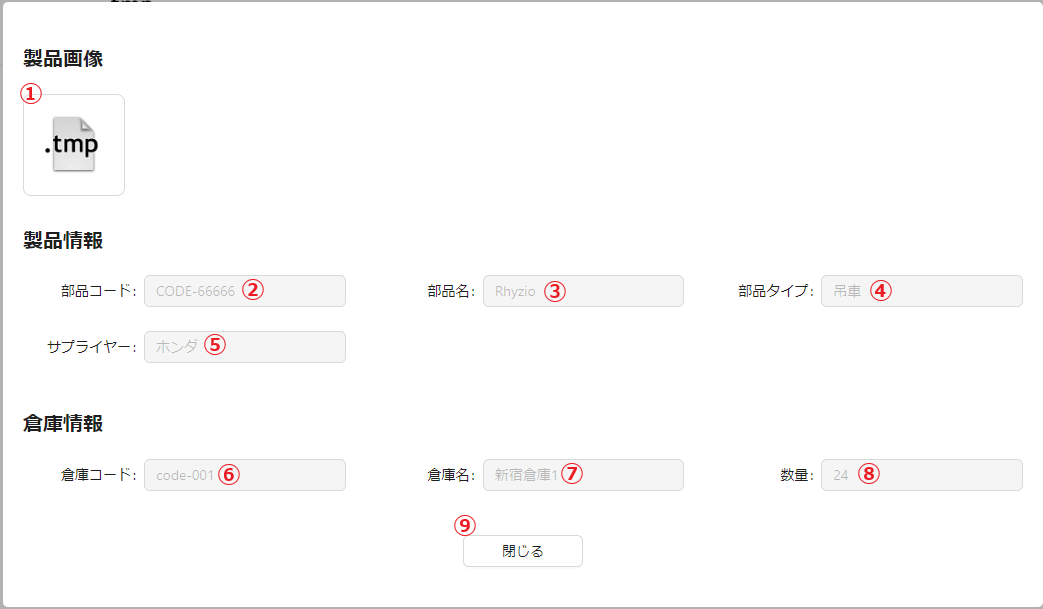
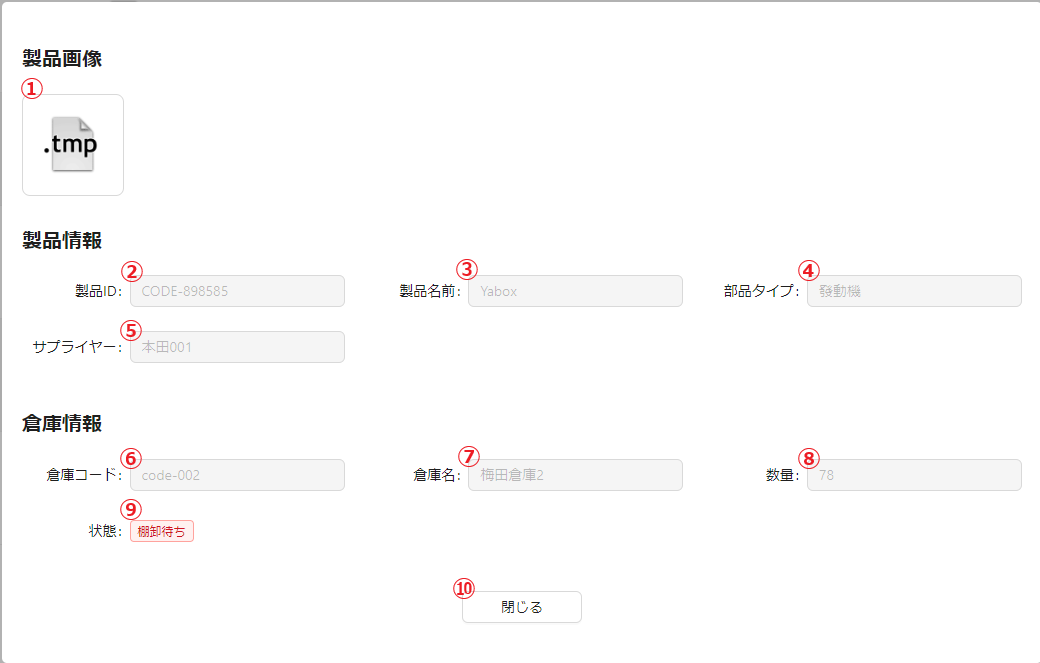
手順書更新

diff --git a/手順書/HOSO-SYSTEM 実行手順書.md b/手順書/HOSO-SYSTEM 実行手順書.md
@@ -453,9 +453,9 @@
 | id  |      説明      |
 | :-- | :----------: |
 | ①   |  記録をダウンロードする（詳しくは[3.1.1](#311)へ）  |
-| ②   |   記録の状態を棚卸に変更する   |
-| ③   |    テーブルヘッダー（検索）（詳しくは[3.1.2](#312)へ）    |
-| ④   |   詳細を表示（詳しくは[3.1.3](#313)へ）  |
+| ②   |   記録の状態を棚卸に変更する （詳しくは[3.1.2](#312)へ）  |
+| ③   |    テーブルヘッダー（検索）（詳しくは[3.1.3](#313)へ）    |
+| ④   |   詳細を表示（詳しくは[3.1.4](#314)へ）  |
 
 <a id="311"></a>
 ### 3.1.1. ① :記録をダウンロードする
@@ -464,9 +464,19 @@
 <!-- TODO: add image-->
 
 <a id="312"></a>
-### 3.1.2. テーブルヘッダー（検索）
+### 3.1.2. 記録の状態を棚卸に変更する
+このボタンを押して、記録の状態を棚卸待ちに変える。
+タグで状態を表示されている。\
+タグの画像は以下のように表示されている。
+| 状態  |      タグ     |
+| :-- | :----------: |
+| 正常  |  ![正常タグ](./img/stock/tag_normal.png)  |
+| 棚卸待ち  |   ![棚卸待ちタグ](./img/stock/tag_wait.png)  |
+
+<a id="313"></a>
+### 3.1.3. テーブルヘッダー（検索）
 カラム名を表示する。\
-![search icon](./img/search-icon.png)がついているカラムをクリックしたら検索できる。\
+![search icon](./img/search-icon.png)がついているカラムをクリックしたら検索できる。
 
 下記は検索できるカラム
 - 倉庫コード
@@ -474,11 +484,10 @@
 - 部品コード
 - 部品名
   
-![stock search](./img/stock/search2.png)
-![stock search2](./img/stock/search.png)
+![stock search](./img/stock/search.png)
 
-<a id="313"></a>
-### 3.1.3. ④ :詳細を表示
+<a id="314"></a>
+### 3.1.4. ④ :詳細を表示
 指定されたレコードの詳細を画像のように表示する
 ![stock detail](./img/stock/detail.png)
 
@@ -486,17 +495,19 @@
 | :-- | :----------: |
 | ①   |  部品の画像を表示 |
 | ②   |  部品のコードを表示 |
-| ③   |  部品名のコードを表示 |
+| ③   |  部品名を表示 |
 | ④   |  部品のタイプを表示 |
 | ⑤   |  サプライヤーを表示 |
 | ⑥   |  倉庫コードを表示 |
 | ⑦   |  倉庫名を表示 |
 | ⑧   |  在庫数を表示 |
-| ⑨   |  ポップアップウィンドウを閉じる |
+| ⑨   |  状態を表示 |
+| ⑩   |  ポップアップウィンドウを閉じる |
 
 <a id="32"></a>
 ## 3.2. 入出庫管理
 <!-- TODO -->
+
 
 <a id="33"></a>
 ## 3.3. 入出庫レビュー
